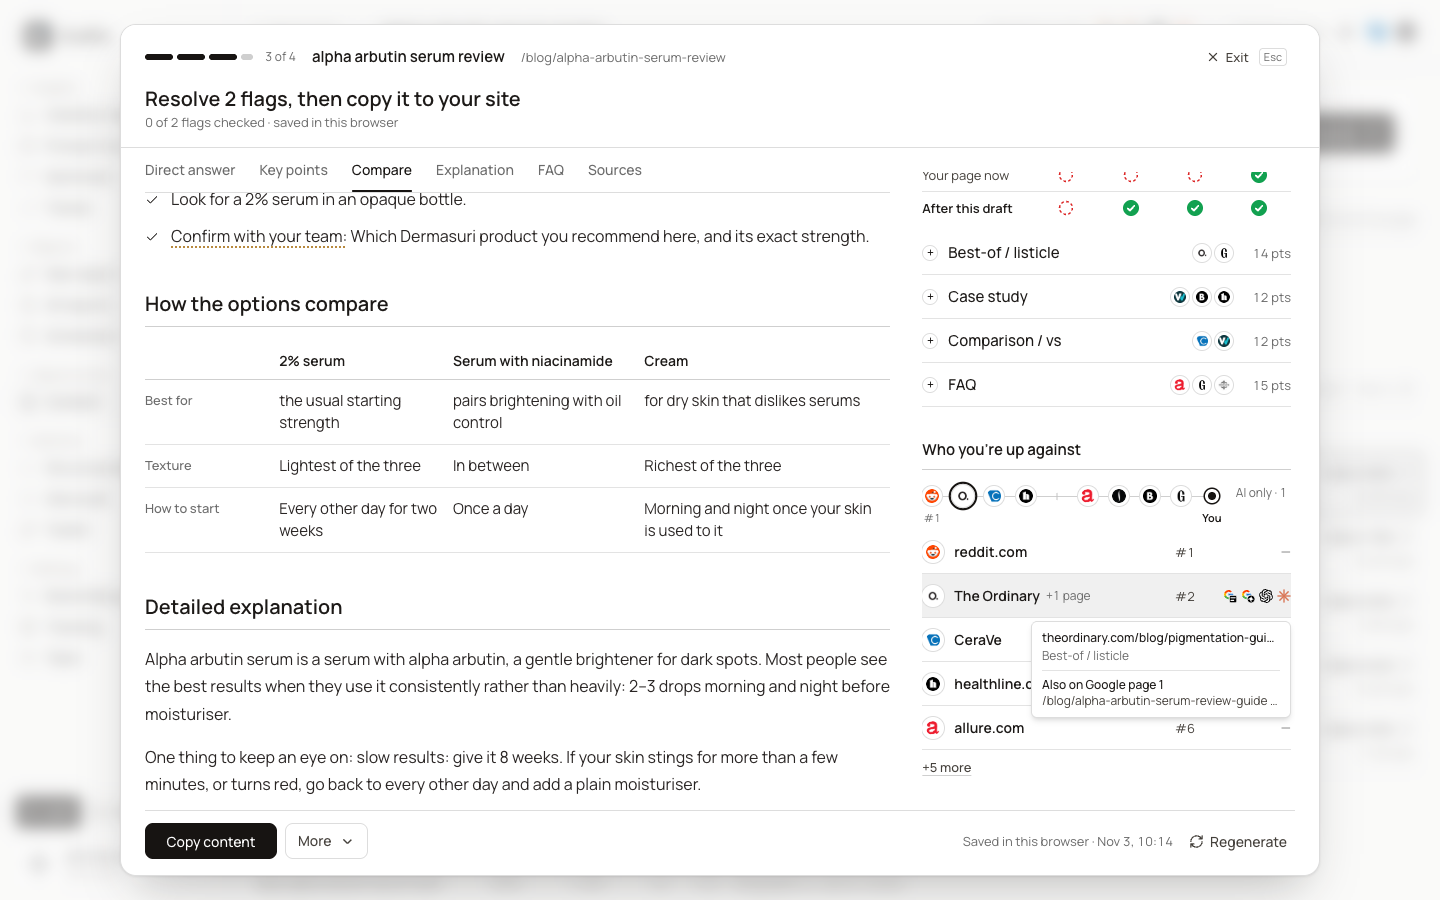
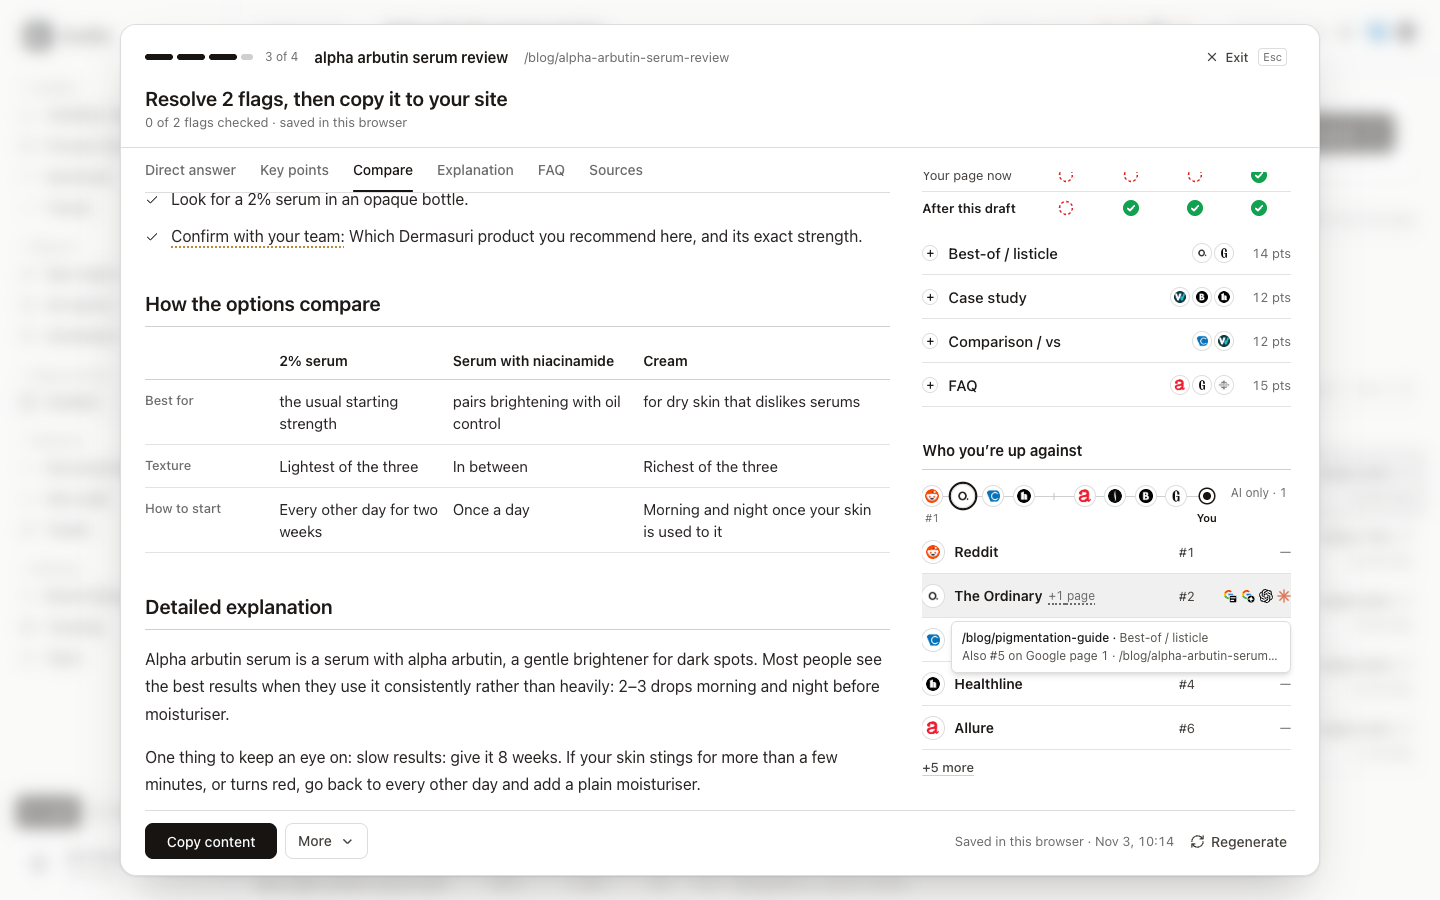
Content: "+1 page" fixes (owner, 2026-11-05). The winners table, the Draft rail and the page-1 strip's card use the display name (parts.jsx siteName: the tracked brand's name, else the tidied domain, never raw). A two-spot site's hover is two lines, the same in both places (TwoSpotLines): the cited 

diff --git a/src/pages/opportunities/workspace/TargetV1.jsx b/src/pages/opportunities/workspace/TargetV1.jsx
@@ -27,7 +27,7 @@ import { ArrowRight, ArrowUpRight } from 'lucide-react'
 import { PlatformIcon } from '../../../components/dashboard/icons'
 import { ENGINE_NAME, engineIcon } from '../../../data/contentOpportunities'
 import { formatLabel } from '../../../data/contentRecommend'
-import { LogoPlate, MorePages, withResults } from '../parts'
+import { LogoPlate, MorePages, siteName, withResults } from '../parts'
 import { afterRow, draftPlan, draftPreview, enginesOf, formatMatrix, pageOf, rankLadder } from '../draft/recommend'
 import { lineBtn } from '../../../components/tool/ToolPage'
 import { RingDraw, TickDraw } from './ui'
@@ -149,6 +149,13 @@ const engineNames = (e) => [...e.engines.map((id) => ENGINE_NAME[id]), ...(e.unk
 function Ladder({ ladder, eng, host, setHost }) {
   const { slots, ours, aiOnly } = ladder
   let n = 0
+  // a site on two page-1 spots (owner, 2026-11-05): hovering it keeps both circles bright and dims the others to 40%
+  const count = slots.reduce((m, p) => (p ? m.set(p.host, (m.get(p.host) ?? 0) + 1) : m), new Map())
+  const twoSpot = host && (count.get(host) ?? 0) > 1
+  const [hoverUrl, setHoverUrl] = useState(null) // the slot under the pointer: only its card shows
+  const dim = (p) => twoSpot && p.host !== host
+  const card = (p) => (hoverUrl ? hoverUrl === p.url : host === p.host && slots.find((s) => s?.host === host) === p)
+  const slotProps = (p) => ({ host, setHost, dim: dim(p), card: card(p), onHover: setHoverUrl })
   return (
     <section aria-labelledby="co-ladder-h">
       <div className={HEAD}>
@@ -158,7 +165,7 @@ function Ladder({ ladder, eng, host, setHost }) {
       <ol className="flex h-[104px] items-center justify-center gap-3" aria-label="Google page 1">
         {slots.map((p, i) => (
           <li key={i} className="flex w-12 flex-col items-center gap-1.5">
-            {p ? <Slot page={p} e={eng(p)} ours={p.isOurs} i={n++} host={host} setHost={setHost} /> : <span aria-hidden className="h-12 w-12 rounded-full border-[1.5px] border-dashed border-[var(--co-slot)]" />}
+            {p ? <Slot page={p} e={eng(p)} ours={p.isOurs} i={n++} {...slotProps(p)} /> : <span aria-hidden className="h-12 w-12 rounded-full border-[1.5px] border-dashed border-[var(--co-slot)]" />}
             <span className={`text-[12px] leading-4 tabular-nums ${p ? 'font-semibold text-stone-700' : 'text-stone-400'}`}>#{i + 1}{!p && <span className="sr-only"> empty</span>}</span>
           </li>
         ))}
@@ -170,7 +177,7 @@ function Ladder({ ladder, eng, host, setHost }) {
         )}
         {aiOnly.length > 0 && (
           <li className="ml-3 flex flex-col items-center gap-1.5 border-l border-line pl-6">
-            <span className="flex gap-3">{aiOnly.map((p) => <Slot key={p.url} page={p} e={eng(p)} i={n++} host={host} setHost={setHost} />)}</span>
+            <span className="flex gap-3">{aiOnly.map((p) => <Slot key={p.url} page={p} e={eng(p)} i={n++} {...slotProps(p)} />)}</span>
             <span className="whitespace-nowrap text-[12px] leading-4 text-stone-500">AI only</span>
           </li>
         )}
@@ -180,20 +187,23 @@ function Ladder({ ladder, eng, host, setHost }) {
 }
 
 // a page in its slot: its logo (ink ring when it's yours), its engines on the corner; hover: the card under the row
-function Slot({ page, e, ours = false, i, host, setHost }) {
+// dim: another site's two spots are hovered (40%) · card: this slot shows the hover card (only the one under the pointer)
+function Slot({ page, e, ours = false, i, host, setHost, dim = false, card = false, onHover = () => {} }) {
   const on = host === page.host
+  const enter = () => { setHost(page.host); onHover(page.url) }
+  const leave = () => { setHost(null); onHover(null) }
   return (
-    <span className="relative" onMouseEnter={() => setHost(page.host)} onMouseLeave={() => setHost(null)}>
-      <button type="button" onFocus={() => setHost(page.host)} onBlur={() => setHost(null)}
-        aria-label={`${page.host}${page.rank ? `, #${page.rank}` : ''}${ours ? ', your page' : ''}${engineNames(e).length ? `, cited by ${engineNames(e).join(', ')}` : ''}`}
+    <span className={`relative transition-opacity duration-150 ${dim ? 'opacity-40' : ''}`} onMouseEnter={enter} onMouseLeave={leave} data-slot-host={page.host} data-dim={dim || undefined}>
+      <button type="button" onFocus={enter} onBlur={leave}
+        aria-label={`${siteName(page.host)}${page.rank ? `, #${page.rank}` : ''}${ours ? ', your page' : ''}${engineNames(e).length ? `, cited by ${engineNames(e).join(', ')}` : ''}`}
         className={`relative grid h-12 w-12 place-items-center rounded-full outline-none transition-transform duration-150 focus-visible:ring-2 focus-visible:ring-focus ${ours ? 'ring-2 ring-ink ring-offset-2 ring-offset-[var(--color-page)]' : ''} ${on ? 'scale-110' : ''}`}
         style={anim('co-slot-in', T.logo(i))}>
         <LogoPlate domain={page.host} size={48} logoClass="h-7 w-7" initialClass="text-[14px]" />
         <span className="absolute -right-1.5 -top-1.5"><EngineIcons e={e} size={14} stack delay={T.engines(i)} /></span>
       </button>
-      {on && (
+      {on && card && (
         <span role="tooltip" className="pointer-events-none absolute left-1/2 top-full z-30 mt-9 w-[260px] -translate-x-1/2 rounded-lg border border-line bg-raised px-3 py-2.5 text-left shadow-md">
-          <span className="block text-[13px] leading-[18px] font-semibold text-stone-900">{page.host}{ours && <span className="font-normal text-stone-500"> · your page</span>}{page.rank && <span className="font-normal text-stone-500"> · #{page.rank}</span>}</span>
+          <span className="block text-[13px] leading-[18px] font-semibold text-stone-900">{siteName(page.host)}{ours && <span className="font-normal text-stone-500"> · your page</span>}{page.rank && <span className="font-normal text-stone-500"> · #{page.rank}</span>}</span>
           <span className="mt-0.5 block text-[13px] leading-[18px] text-stone-700">{page.title}</span>
           <span className="mt-1.5 block text-[12px] leading-4 text-stone-500">{page.formats.length ? page.formats.map(formatLabel).join(' · ') : 'No format detected'}</span>
           <span className="mt-0.5 block text-[12px] leading-4 text-stone-500">{engineNames(e).length ? `Cited by ${engineNames(e).join(', ')}` : 'Not cited in AI answers'}</span>
@@ -233,10 +243,10 @@ function Matrix({ m, path, eng, named, host, setHost, col, hoverCol, pulse, your
               <LogoPlate domain={w.host} size={24} logoClass="h-4 w-4" />
               {/* two lines: the site, then its rank (and "+1 page" when it holds more page-1 spots), so the name stays whole */}
               <span className="flex min-w-0 flex-col">
-                <span className="truncate text-[14px] leading-5 font-semibold text-stone-900">{w.host}</span>
+                <span className="truncate text-[14px] leading-5 font-semibold text-stone-900" title={w.host}>{siteName(w.host)}</span>
                 <span className="flex items-center gap-1.5 text-[12px] leading-4 tabular-nums text-stone-500">
                   {w.rank ? `#${w.rank}` : 'AI only'}
-                  {w.others?.length > 0 && <><span aria-hidden>·</span><MorePages others={w.others} /></>}
+                  {w.others?.length > 0 && <><span aria-hidden>·</span><MorePages page={w} others={w.others} /></>}
                 </span>
               </span>
             </span>

diff --git a/src/pages/opportunities/draft/DraftView.jsx b/src/pages/opportunities/draft/DraftView.jsx
@@ -17,7 +17,7 @@ import { PlatformIcon } from '../../../components/dashboard/icons'
 import { ENGINE_NAME, engineIcon } from '../../../data/contentOpportunities'
 import { formatLabel } from '../../../data/contentRecommend'
 import SiteLogo from '../../../components/ui/SiteLogo'
-import { LogoPlate, Ring, withResults } from '../parts'
+import { DOTTED, LogoPlate, Ring, TwoSpotLines, siteName, withResults } from '../parts'
 import { RingDraw, TickDraw } from '../workspace/ui'
 import { competitorName } from '../../../data/contentRecommend'
 import { COVERAGE_LABEL, beforeAfter, rankStrip, enginesOf, flagHost, outlineShort, upAgainstRows, competitorTerms, competitorsToBeat, confirmOf, draftNotes, draftSections, formatRows, pageOf, readinessOf, sortedFlags, sourcesOf, sourcesToOutrank, splitMentions, withComparisons } from './recommend'
@@ -400,25 +400,25 @@ function Rail({ res, flags, ready, ticked, onTick, competitors, onRecheck, onSho
         <ul onMouseLeave={() => setHot(null)}>
           {(more ? rows : rows.slice(0, 5)).map((r, i, shownRows) => (
             <li key={r.host} onMouseEnter={() => setHot(r.host)} className={`group/ua relative flex h-11 min-w-0 items-center gap-2.5 border-b border-[var(--div)] transition-colors duration-150 ${hot === r.host ? 'bg-tint' : ''}`}>
-              <LogoPlate domain={r.host} name={r.name} size={22} />
+              <LogoPlate domain={r.host} name={siteName(r.host)} size={22} />
               <span className="flex min-w-0 flex-1 items-center gap-1.5">
-                <span className="truncate text-[14px] leading-5 font-semibold text-stone-900">{r.name}</span>
-                {/* the row's own hover card lists the other page(s), so here the note is plain text (no second card) */}
-                {r.others?.length > 0 && <span className="shrink-0 text-[12px] leading-4 tabular-nums text-stone-500">+{r.others.length} {r.others.length === 1 ? 'page' : 'pages'}</span>}
+                {/* the display name: the tracked brand's, else the tidied domain, never raw (owner, 2026-11-05) */}
+                <span className="truncate text-[14px] leading-5 font-semibold text-stone-900" title={r.host}>{siteName(r.host)}</span>
+                {/* the row's own hover card has the two lines, so the note only carries the dotted "hover me" underline */}
+                {r.others?.length > 0 && <span data-more-pages className={`shrink-0 text-[12px] leading-4 tabular-nums text-stone-500 ${DOTTED}`}>+{r.others.length} {r.others.length === 1 ? 'page' : 'pages'}</span>}
               </span>
               <span className="w-8 text-right text-[13px] leading-[18px] tabular-nums text-stone-700">{r.rank ? `#${r.rank}` : ''}</span>
               {/* room for all five engines (5 × 14px + gaps): the rank column stays put whatever a row has */}
               <span className="flex w-[86px] shrink-0 justify-end">{(eng(r.page).engines.length || eng(r.page).unknown) ? <EngineIconRow e={eng(r.page)} /> : <span className="text-[13px] text-stone-500" aria-label="Not cited in AI answers">—</span>}</span>
               {r.url && (
-                <span role="tooltip" className={`${CARD} right-0 w-[260px] text-stone-700 group-hover/ua:block ${i >= shownRows.length - 2 ? 'bottom-full mb-1' : 'top-full mt-1'}`}>
-                  <span className="block truncate font-medium text-stone-900" title={r.url}>{r.url.replace(/^https?:\/\/(www\.)?/, '')}</span>
-                  <span className="mt-0.5 block text-stone-500">{r.formats.length ? r.formats.map(formatLabel).join(' · ') : 'No format detected'}</span>
-                  {r.others?.length > 0 && (
-                    <span className="mt-1.5 block border-t border-[var(--div)] pt-1.5">
-                      <span className="block font-medium text-stone-900">Also on Google page 1</span>
-                      {r.others.map((o) => <span key={o.path} className="block truncate tabular-nums">{o.path}{o.rank ? <span className="text-stone-500"> · #{o.rank}</span> : null}</span>)}
-                    </span>
-                  )}
+                <span role="tooltip" className={`${CARD} right-0 ${r.others?.length ? 'w-[340px]' : 'w-[260px]'} text-stone-700 group-hover/ua:block ${i >= shownRows.length - 2 ? 'bottom-full mb-1' : 'top-full mt-1'}`}>
+                  {r.others?.length > 0
+                    // a site on two page-1 spots: the same two lines as the winners table's "+1 page"
+                    ? <TwoSpotLines page={r} others={r.others} />
+                    : <>
+                      <span className="block truncate font-medium text-stone-900" title={r.url}>{r.url.replace(/^https?:\/\/(www\.)?/, '')}</span>
+                      <span className="mt-0.5 block text-stone-500">{r.formats.length ? r.formats.map(formatLabel).join(' · ') : 'No format detected'}</span>
+                    </>}
                 </span>
               )}
             </li>

diff --git a/src/pages/opportunities/parts.jsx b/src/pages/opportunities/parts.jsx
@@ -8,6 +8,8 @@ import SiteLogo from '../../components/ui/SiteLogo'
 import { navigate } from '../../router'
 import { CO_BRAND, CO_BRANDS, ENGINES, ENGINE_NAME, coBrandName, engineIcon } from '../../data/contentOpportunities'
 import { hasResult } from '../../data/brandViews'
+import { competitorName, formatLabel } from '../../data/contentRecommend'
+import { brandName } from '../../utils/brand'
 
 // a page's engines (recommend.js enginesOf) without any engine that has no result in the latest scan (the no-result
 // state: it isn't shown citing anything either)
@@ -157,21 +159,39 @@ export const pathOf = (url) => { try { return new URL(url).pathname } catch { re
 export const uniqueDomains = (domains, exclude = []) => [...new Set(domains)].filter((d) => !exclude.includes(d))
 export const OWN_DOMAIN = CO_BRAND.domain
 
+// A site's display name (owner, 2026-11-05): a tracked brand's name ("The Ordinary"), else the tidied domain
+// ("healthline.com" → "Healthline"), never the raw domain
+export const siteName = (host) => CO_BRANDS[host]?.name ?? (competitorName(host) !== host ? competitorName(host) : brandName(host))
+// the dotted underline that says "hover me" (the "Confirm with your team" style, in a neutral grey: amber is for
+// things to confirm)
+export const DOTTED = 'underline decoration-dotted decoration-[1.5px] decoration-[var(--color-stone-400)] underline-offset-[4px]'
+const pathOfUrl = (u) => { try { return new URL(u).pathname.replace(/\/$/, '') || '/' } catch { return u } }
+// a two-spot site's hover text, two lines (the winners table and the Draft rail say the same): line 1 the cited page's
+// path and its format(s); line 2 "Also #7 on Google page 1" and that page's path (one line per other page)
+export function TwoSpotLines({ page, others = [] }) {
+  return (
+    <>
+      <span className="block truncate font-medium text-stone-900">{pathOfUrl(page.url)} · <span className="font-normal text-stone-600">{page.formats?.length ? page.formats.map(formatLabel).join(' · ') : 'No format detected'}</span></span>
+      {others.map((o) => <span key={o.path} className="mt-0.5 block truncate tabular-nums text-stone-600">Also #{o.rank} on Google page 1 · {o.path}</span>)}
+    </>
+  )
+}
+
 // "+1 page" / "+2 pages": a site on more than one page-1 spot, shown once at its best rank (owner, 2026-11-05). Sits
-// right after the rank, 12px muted; hover or focus lists the site's other page(s) with their rank. others: [{ path, rank }]
-export function MorePages({ others = [], align = 'left' }) {
+// right after the rank, 12px muted with the dotted "hover me" underline; hover or focus shows the two lines
+// (TwoSpotLines). page: the site's best page ({ url, formats }) · others: [{ path, rank }]
+export function MorePages({ page, others = [], align = 'left' }) {
   if (!others.length) return null
   const label = `+${others.length} ${others.length === 1 ? 'page' : 'pages'}`
-  const list = others.map((o) => `${o.path}${o.rank ? ` (#${o.rank})` : ''}`).join(', ')
+  const list = others.map((o) => `#${o.rank} ${o.path}`).join(', ')
   return (
     <span className="group/mp relative inline-flex shrink-0">
-      <button type="button" aria-label={`${label} on page 1: ${list}`} onClick={(e) => e.stopPropagation()}
-        className="rounded text-[12px] leading-4 tabular-nums text-stone-500 underline decoration-dotted decoration-[var(--color-line-strong)] underline-offset-[3px] outline-none hover:text-stone-700 focus-visible:ring-2 focus-visible:ring-focus">
+      <button type="button" aria-label={`${label}: also ${list} on Google page 1`} onClick={(e) => e.stopPropagation()}
+        className={`rounded text-[12px] leading-4 tabular-nums text-stone-500 ${DOTTED} outline-none hover:text-stone-700 focus-visible:ring-2 focus-visible:ring-focus`}>
         {label}
       </button>
-      <span role="tooltip" className={`pointer-events-none absolute top-full z-30 mt-1 hidden w-max max-w-[280px] rounded-lg border border-line bg-raised px-3 py-2 text-left text-[12px] leading-4 text-stone-700 shadow-lg group-hover/mp:block group-focus-within/mp:block ${align === 'right' ? 'right-0' : 'left-0'}`}>
-        <span className="mb-1 block font-medium text-stone-900">Also on Google page 1</span>
-        {others.map((o) => <span key={o.path} className="block truncate tabular-nums">{o.path}{o.rank ? <span className="text-stone-500"> · #{o.rank}</span> : null}</span>)}
+      <span role="tooltip" className={`pointer-events-none absolute top-full z-30 mt-1 hidden w-max max-w-[340px] rounded-lg border border-line bg-raised px-3 py-2 text-left text-[12px] leading-4 shadow-lg group-hover/mp:block group-focus-within/mp:block ${align === 'right' ? 'right-0' : 'left-0'}`}>
+        <TwoSpotLines page={page} others={others} />
       </span>
     </span>
   )

diff --git a/docs/port-content.md b/docs/port-content.md
@@ -493,3 +493,15 @@ best-ranked competitor also at a lower rank, e.g. prompt 11 "sunscreen for oily 
   (`upAgainstRows` via `bySite`; rows carry `others: [{ url, path, rank }]`). The row shows a plain "+1 page" after the
   name; its existing hover card adds "Also on Google page 1" with the other page(s) (one card, not two).
 
+**Fixes (owner, 2026-11-05):**
+- **Names:** the winners table, the Draft rail and the strip's hover card use the display name (`parts.jsx`
+  `siteName(host)`: the tracked brand's name, "The Ordinary"; else the tidied domain, "healthline.com" → "Healthline";
+  never a raw domain).
+- **Hover = two lines, the same in both places** (`TwoSpotLines`): line 1 the cited page's path · its format(s); line 2
+  "Also #<rank> on Google page 1 · <path>" (one line per other page). The winners table shows it on the "+1 page" note;
+  the Draft rail's row card shows it for a two-spot row (340px wide).
+- **"+1 page"** carries the "Confirm with your team" dotted underline (`DOTTED`: 1.5px dotted, offset 4px) in a neutral
+  grey (amber stays for things to confirm), so it reads as hoverable; in the rail too.
+- **Page-1 strip:** hovering a site that holds two spots keeps both circles bright and dims the others to 40%; only the
+  circle under the pointer shows its card.
+- Test: `tests/two-spots.browser.test.mjs`.
